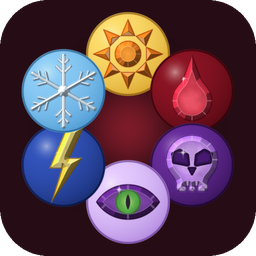
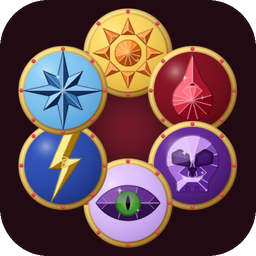
2.3.1: ícone novo com as joias lapidadas
Claude-Session: https://claude.ai/code/session_01DjNdgvifZSdmPf3WafSU9R

Changed region(s): [[0.0625, 0.0312, 0.9375, 0.9688]]

diff --git a/src/AssemblyInfo.cs b/src/AssemblyInfo.cs
@@ -4,6 +4,6 @@ using System.Reflection;
 [assembly: AssemblyProduct("CorrenteRapida")]
 [assembly: AssemblyDescription("Barra de troca rápida das Correntes do Draekhar: um clique troca de elemento sem abrir a janela. Joias animadas que evoluem com o tempo de uso.")]
 [assembly: AssemblyCompany("Sangria Falls (mod de jogador)")]
-[assembly: AssemblyVersion("2.3.0.0")]
-[assembly: AssemblyFileVersion("2.3.0.0")]
-[assembly: AssemblyInformationalVersion("2.3.0")]
+[assembly: AssemblyVersion("2.3.1.0")]
+[assembly: AssemblyFileVersion("2.3.1.0")]
+[assembly: AssemblyInformationalVersion("2.3.1")]

diff --git a/src/Plugin.cs b/src/Plugin.cs
@@ -10,7 +10,7 @@ public class Plugin : BasePlugin
 {
     public const string Guid = "sangria.correnterapida";
     public const string Name = "CorrenteRapida";
-    public const string Version = "2.3.0";
+    public const string Version = "2.3.1";
 
     internal static ManualLogSource L = null!;
     internal static Settings S = null!;
